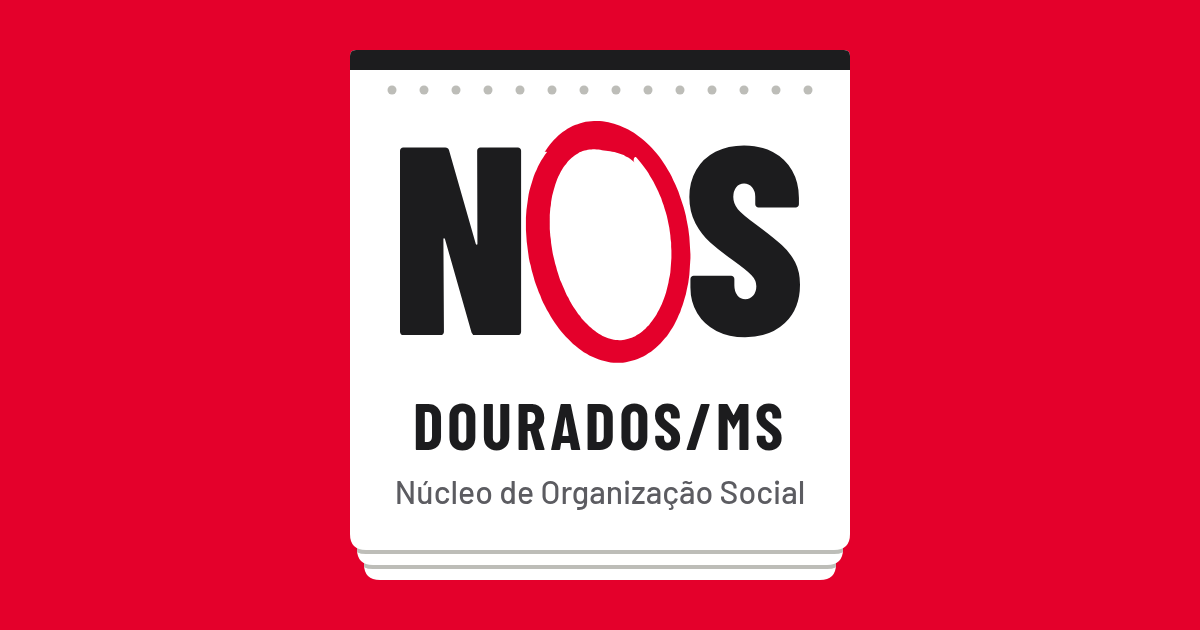
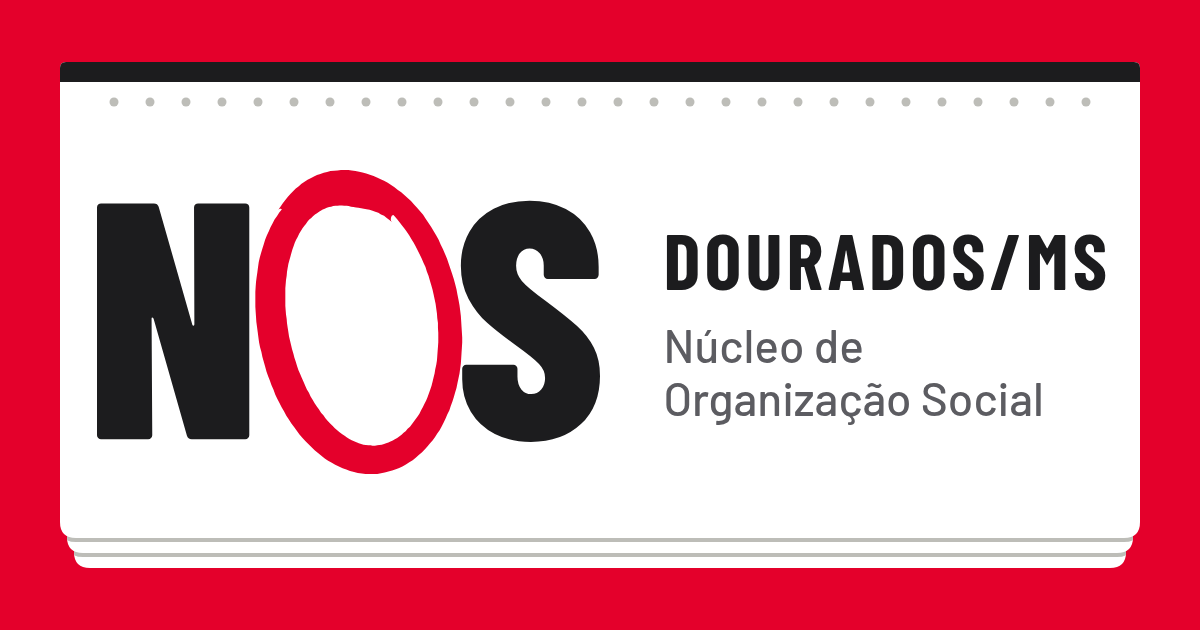
Link preview: the folhinha's sheet across the card's whole width
WhatsApp shows the image whole above the title, so the centred 500px sheet left two empty red bands.
The sheet now lies across the card (1080px): the mark where the day goes, "Dourados/MS" and the full
name beside it, with type sized for the ~330px bubble. og:image moves to ?v=3.

diff --git a/assets/og-image.html b/assets/og-image.html
@@ -1,11 +1,12 @@
 <!doctype html>
 <!-- Source of assets/og-image.png (1200 × 630), the link preview of WhatsApp, Telegram and the
-     social networks (rendered by assets/render.cjs). The folhinha's pad at poster size on the red header
-     card, with the NOS mark (MARK in js/icons.js) printed where a day sheet prints its day: the letters
-     in ink and the O circled in red, the date someone marked. Under it the city as the weekday and the
-     full name as the month. The pad is today's sheet over the edges of two sheets under it, its binding
-     graphite as on the Cartaz flyer's sheet (a red strip would vanish into the red card). Everything sits
-     in the centred 630 × 630 square, which WhatsApp's small previews crop to, and nothing in it dates.
+     social networks (rendered by assets/render.cjs). The folhinha's sheet lying across the red header
+     card, wide enough to fill the preview: the NOS mark (MARK in js/icons.js) printed where a day sheet
+     prints its day, the letters in ink and the O circled in red, and beside it the city as the weekday
+     and the full name as the month, as the site's sheet heads set them. Under it the edges of two
+     sheets, the pad; its binding is graphite as on the Cartaz flyer's sheet (a red strip would vanish
+     into the red card). WhatsApp shows this image whole, above the title, in a bubble about 330px wide:
+     the type is sized for that (78px and 46px here are about 21px and 13px there). Nothing in it dates.
      Colours are the roles of css/theme.css; the texts come from js/config.js. -->
 <html lang="pt-BR">
 <head>
@@ -22,30 +23,34 @@
   html, body { width: 1200px; height: 630px; overflow: hidden; }
   body { position: relative; background: var(--role-header); color: var(--role-ink); -webkit-font-smoothing: antialiased; }
 
-  /* The pad: 500px sheets, today's 500px tall, two edges of 15px under it (530px in all). */
-  .pad { position: absolute; left: 350px; top: 50px; width: 500px; height: 530px; }
+  /* The pad: a 1080 × 476px sheet, two edges of 15px under it (506px in all), 60px of red around. */
+  .pad { position: absolute; left: 60px; top: 62px; width: 1080px; height: 506px; }
   .pad > svg { position: absolute; inset: 0; overflow: visible; }
   .pad-paper { fill: var(--role-paper); }
   .pad-seam { fill: var(--role-ink-faded); }
   .pad-binding { fill: var(--role-strong); }
   .pad-perf { fill: var(--role-ink-faded); }
 
-  /* Today's sheet, under its binding (20px) and perforation (40px): the head of a day sheet. */
-  .head { position: absolute; left: 0; right: 0; top: 60px; height: 440px; display: flex; flex-direction: column; align-items: center; justify-content: center; padding-bottom: 28px; text-align: center; }
-  .mark { display: block; flex: none; width: 400px; height: 241.7px; overflow: visible; } /* the drawing is 1493:902 */
+  /* Today's sheet, under its binding (20px) and perforation (40px): the mark in the numeral's place,
+     the city and the full name in the text column beside it. */
+  .head { position: absolute; left: 0; right: 0; top: 60px; height: 416px; display: flex; align-items: center; justify-content: center; gap: 64px; padding-bottom: 16px; }
+  .mark { display: block; flex: none; width: 503px; height: 304px; overflow: visible; } /* the drawing is 1493:902 */
   .mark-letters { fill: var(--role-ink); }
   .mark-loop { fill: var(--role-mark-loop); }
-  .weekday { margin-top: 30px; font: 700 64px/1 var(--font-display); letter-spacing: 0.06em; text-transform: uppercase; }
-  .month { margin-top: 14px; font: 500 32px/1.25 var(--font-ui); color: var(--role-ink-soft); }
+  .text { display: flex; flex-direction: column; gap: 20px; max-width: 440px; }
+  .weekday { font: 700 78px/1 var(--font-display); letter-spacing: 0.05em; text-transform: uppercase; white-space: nowrap; }
+  .month { font: 500 46px/1.16 var(--font-ui); color: var(--role-ink-soft); text-wrap: balance; }
 </style>
 </head>
 <body>
   <div class="pad">
-    <svg id="sheets" xmlns="http://www.w3.org/2000/svg" width="500" height="530" viewBox="0 0 500 530" aria-hidden="true"></svg>
+    <svg id="sheets" xmlns="http://www.w3.org/2000/svg" width="1080" height="506" viewBox="0 0 1080 506" aria-hidden="true"></svg>
     <div class="head">
       <svg class="mark" id="mark" xmlns="http://www.w3.org/2000/svg" aria-hidden="true"></svg>
-      <p class="weekday" id="city"></p>
-      <p class="month" id="full"></p>
+      <div class="text">
+        <p class="weekday" id="city"></p>
+        <p class="month" id="full"></p>
+      </div>
     </div>
   </div>
 <script type="module">
@@ -68,9 +73,9 @@
       + `V${y + rt}Q${x},${y} ${x + rt},${y}Z`;
   }
 
-  // The pad in px: the binding, perforation and corners of the Cartaz's sheet (css/flyers.css) scaled
-  // to a 500px sheet, and the edges of two sheets under it, each 15px lower and 7px narrower a side.
-  const W = 500, H = 500, RT = 6, RB = 16, BINDING = 20, PERF = 40, DOT = 9, DOTS = 14, MARGIN = 42;
+  // The pad in px: the binding, perforation and corners of the Cartaz's sheet (css/flyers.css) at this
+  // scale, a dot every 36px, and the edges of two sheets under it, each 15px lower and 7px narrower a side.
+  const W = 1080, H = 476, RT = 6, RB = 16, BINDING = 20, PERF = 40, DOT = 9, STEP = 36, MARGIN = 40;
   const UNDER = [{ inset: 7, edge: 15 }, { inset: 14, edge: 30 }];
   const SEAM = 4;
   const sheets = document.getElementById('sheets');
@@ -85,8 +90,10 @@
   }
   add(sheets, 'path', { d: sheetPath(0, 0, W, H, RT, RB) }, 'pad-paper');
   add(sheets, 'path', { d: `M${RT},0H${W - RT}Q${W},0 ${W},${RT}V${BINDING}H0V${RT}Q0,0 ${RT},0Z` }, 'pad-binding');
-  for (let i = 0; i < DOTS; i++) {
-    add(sheets, 'circle', { cx: MARGIN + (i * (W - 2 * MARGIN)) / (DOTS - 1), cy: BINDING + PERF / 2, r: DOT / 2 }, 'pad-perf');
+  const dots = Math.floor((W - 2 * MARGIN) / STEP) + 1;
+  const first = (W - (dots - 1) * STEP) / 2;
+  for (let i = 0; i < dots; i++) {
+    add(sheets, 'circle', { cx: first + i * STEP, cy: BINDING + PERF / 2, r: DOT / 2 }, 'pad-perf');
   }
 
   const mark = document.getElementById('mark');

diff --git a/index.html b/index.html
@@ -50,14 +50,14 @@
        resolve relative ones, and without og:image every app shows a text-only preview. Keep
        og:image:width/height in step with assets/og-image.png (Facebook needs them to show the image on the
        first share). After changing the image, bump the ?v= of og:image in the three pages (a new address makes
-       the crawlers fetch it again; v=2 is the mark of 2026-10-27) and refresh cached previews: Facebook Sharing
+       the crawlers fetch it again; v=3 is the wide sheet of 2026-10-27) and refresh cached previews: Facebook Sharing
        Debugger (developers.facebook.com/tools/debug) and, for Telegram, @WebpageBot; WhatsApp caches each
        shared URL, so an address it has seen keeps its old preview for a while (any new query, ?w=1, gets a
        fresh one). -->
   <link rel="canonical" href="https://nos.dourados.social/">
   <meta property="og:url" content="https://nos.dourados.social/">
-  <meta property="og:image" content="https://nos.dourados.social/assets/og-image.png?v=2">
-  <meta property="og:image:secure_url" content="https://nos.dourados.social/assets/og-image.png?v=2">
+  <meta property="og:image" content="https://nos.dourados.social/assets/og-image.png?v=3">
+  <meta property="og:image:secure_url" content="https://nos.dourados.social/assets/og-image.png?v=3">
   <meta property="og:image:type" content="image/png">
   <meta property="og:image:width" content="1200">
   <meta property="og:image:height" content="630">

diff --git a/calendario.html b/calendario.html
@@ -31,8 +31,8 @@
   <meta name="twitter:card" content="summary_large_image">
   <link rel="canonical" href="https://nos.dourados.social/calendario.html">
   <meta property="og:url" content="https://nos.dourados.social/calendario.html">
-  <meta property="og:image" content="https://nos.dourados.social/assets/og-image.png?v=2">
-  <meta property="og:image:secure_url" content="https://nos.dourados.social/assets/og-image.png?v=2">
+  <meta property="og:image" content="https://nos.dourados.social/assets/og-image.png?v=3">
+  <meta property="og:image:secure_url" content="https://nos.dourados.social/assets/og-image.png?v=3">
   <meta property="og:image:type" content="image/png">
   <meta property="og:image:width" content="1200">
   <meta property="og:image:height" content="630">

diff --git a/comercio.html b/comercio.html
@@ -31,8 +31,8 @@
   <meta name="twitter:card" content="summary_large_image">
   <link rel="canonical" href="https://nos.dourados.social/comercio.html">
   <meta property="og:url" content="https://nos.dourados.social/comercio.html">
-  <meta property="og:image" content="https://nos.dourados.social/assets/og-image.png?v=2">
-  <meta property="og:image:secure_url" content="https://nos.dourados.social/assets/og-image.png?v=2">
+  <meta property="og:image" content="https://nos.dourados.social/assets/og-image.png?v=3">
+  <meta property="og:image:secure_url" content="https://nos.dourados.social/assets/og-image.png?v=3">
   <meta property="og:image:type" content="image/png">
   <meta property="og:image:width" content="1200">
   <meta property="og:image:height" content="630">

diff --git a/CLAUDE.md b/CLAUDE.md
@@ -66,7 +66,7 @@ Calendar data flow: `app.js` fetches CSV → `csv.js` `parseCSV` → `events.js`
 - Two defensive paths, both harmless where they aren't needed: a response that followed a redirect (the published Google Sheets CSV answers 307 to googleusercontent.com) goes back to the page as a plain copy, because Playwright's Firefox build never delivers a redirected response from `respondWith` (the page's fetch hangs; stock Firefox 156 is fine); and `fetchCSV` in `js/app.js` falls back to `caches.match(CSV_URL)` when the fetch throws, because Firefox's offline mode as emulated in tests doesn't ask the worker for `no-store` requests.
 - `manifest.webmanifest`: id `/nos-dourados` (never change it: a new id is a new app; `./` would resolve to the origin root on a sub-path host such as GitHub Pages), name and short_name "NOS Dourados", `start_url` `./` (the home), `shortcuts` to Calendário and Comércio, `theme_color` #E4002B (keep it equal to the `theme-color` meta; neither can read CSS variables), `background_color` #EFEFEC, no orientation lock (WCAG 1.3.4), four narrow screenshots (three of the calendar, one of Comércio) and one wide one.
 - The head has PNG favicons (16/32/48), the apple-touch-icon, `apple-mobile-web-app-*` (status bar "black": "black-translucent" would need a fixed red strip under the status bar and a test on a real iPhone) and the og/twitter tags. `og:url`, `og:image` and `canonical` use the absolute https address, because crawlers don't resolve relative URLs.
-- Assets are rendered from HTML by `node assets/render.cjs [icons|og|shots]`, which serves the folder itself, passes `index.html`'s `data-theme` to the templates as `?tema=` and stamps each PNG with its origin (a `tEXt` chunk under the impeccable skill's keyword: `impeccable embed-prompt <file> --read` shows it, `--scan assets` lists files without one) (Playwright: `PLAYWRIGHT_CORE`/`CHROMIUM` env vars, a local `playwright-core` install, or the maintainer's paths). `assets/icon.html` (variants `#any`, `#maskable`, `#apple`, `#favicon`, drawn at the viewport size) prints the NOS mark (`MARK` in `js/icons.js`) on a day sheet, paper under the red binding strip; the favicons are its red O alone, drawn as a stroke from the loop's centre line kept in `icon.html`. `assets/og-image.html` (the link preview) prints the mark where a day sheet prints its day, on the folhinha's pad over the red card, with the city and the full name of `js/config.js`. Both use the theme roles and set `html[data-ready]` when done. The screenshots are the site itself (`calendario.html`, `comercio.html`) on a fixed day (2026-10-15).
+- Assets are rendered from HTML by `node assets/render.cjs [icons|og|shots]`, which serves the folder itself, passes `index.html`'s `data-theme` to the templates as `?tema=` and stamps each PNG with its origin (a `tEXt` chunk under the impeccable skill's keyword: `impeccable embed-prompt <file> --read` shows it, `--scan assets` lists files without one) (Playwright: `PLAYWRIGHT_CORE`/`CHROMIUM` env vars, a local `playwright-core` install, or the maintainer's paths). `assets/icon.html` (variants `#any`, `#maskable`, `#apple`, `#favicon`, drawn at the viewport size) prints the NOS mark (`MARK` in `js/icons.js`) on a day sheet, paper under the red binding strip; the favicons are its red O alone, drawn as a stroke from the loop's centre line kept in `icon.html`. `assets/og-image.html` (the link preview) lays the folhinha's sheet across the red card's whole width, as WhatsApp shows the image whole above the title, and prints the mark where a day sheet prints its day, with the city and the full name of `js/config.js` beside it; its type is sized for the ~330px-wide bubble. Both use the theme roles and set `html[data-ready]` when done. The screenshots are the site itself (`calendario.html`, `comercio.html`) on a fixed day (2026-10-15).
 - Landscape is allowed. With `viewport-fit=cover`, `.masthead`, `.shell`, the full-width phone sheet and the skip link pad with `env(safe-area-inset-*)`; on phones on their side (`max-height: 500px` and landscape) the sheet takes nearly the whole height, and in flyer mode the preview stands beside the format bar and the style picker.
 
 ## Customization points

diff --git a/DESIGN.md b/DESIGN.md
@@ -542,7 +542,7 @@ The production bench. On phones it is a bottom sheet: 14px top corners, the Shee
 Flyers carry no yellow. Export waits for `document.fonts.ready`.
 
 ### The NOS Mark
-NOS with the O circled by hand, the way someone circles a date on the folhinha (`brandMark` and `MARK` in `js/icons.js`, with a static copy in each page so the name shows without JS; chosen on 2026-10-27 among five proposals, `design/marca-propostas.html`). N and S are Barlow Condensed 800 outlines; the O is the outline of a marker stroke, its width swelling and thinning, tilted -9° and running past its start at the top, the one hand-applied thing in the mark. One inline SVG, 1493 × 902 font units (3.807em by 2.3em), sized by font-size: 1.25rem in the header, 1rem on very narrow screens, 42px on the Folha do dia and the Calendário do mês, 40px on the Aviso and 30px in the Cartaz's signature. The letters take the text colour and the loop takes `--mark-loop` (the text colour too, unless set), so on the red header card and the flyers it is all white, and on paper the letters print in Graphite Ink and the O in Folhinha Red (`--role-mark-loop`). It casts no shadow. Beside it, "Dourados/MS" in Masthead type over "Núcleo de Organização Social" in Caption; the mark already says NOS, so no text repeats it. The app icons are the mark on a day sheet (paper under the red binding strip; `assets/icon.html`), the favicons the red O alone, drawn as a stroke, on a rounded sheet, and the link preview prints the mark where a day sheet prints its day, on the pad over the red card (`assets/og-image.html`). The drawing spells NOS: another `APP_NAME` prints the word in its place (`.mark-text`) until a mark is drawn for it; after any change, `node assets/render.cjs`.
+NOS with the O circled by hand, the way someone circles a date on the folhinha (`brandMark` and `MARK` in `js/icons.js`, with a static copy in each page so the name shows without JS; chosen on 2026-10-27 among five proposals, `design/marca-propostas.html`). N and S are Barlow Condensed 800 outlines; the O is the outline of a marker stroke, its width swelling and thinning, tilted -9° and running past its start at the top, the one hand-applied thing in the mark. One inline SVG, 1493 × 902 font units (3.807em by 2.3em), sized by font-size: 1.25rem in the header, 1rem on very narrow screens, 42px on the Folha do dia and the Calendário do mês, 40px on the Aviso and 30px in the Cartaz's signature. The letters take the text colour and the loop takes `--mark-loop` (the text colour too, unless set), so on the red header card and the flyers it is all white, and on paper the letters print in Graphite Ink and the O in Folhinha Red (`--role-mark-loop`). It casts no shadow. Beside it, "Dourados/MS" in Masthead type over "Núcleo de Organização Social" in Caption; the mark already says NOS, so no text repeats it. The app icons are the mark on a day sheet (paper under the red binding strip; `assets/icon.html`), the favicons the red O alone, drawn as a stroke, on a rounded sheet, and the link preview lays a day sheet across the whole red card, the mark where the day goes and the city and the full name beside it, as a sheet head sets its weekday and month (`assets/og-image.html`). The drawing spells NOS: another `APP_NAME` prints the word in its place (`.mark-text`) until a mark is drawn for it; after any change, `node assets/render.cjs`.
 
 ### Icons
 Lucide outlines (ISC license) at one stroke weight (2) on a 24px grid with round caps and joins, drawn in `currentColor` at 20px (18px in the view tabs and the organization pill, 16px beside places and periods, 40px on the blank sheet). Emoji exist only inside the WhatsApp message text, where WhatsApp shows them.
